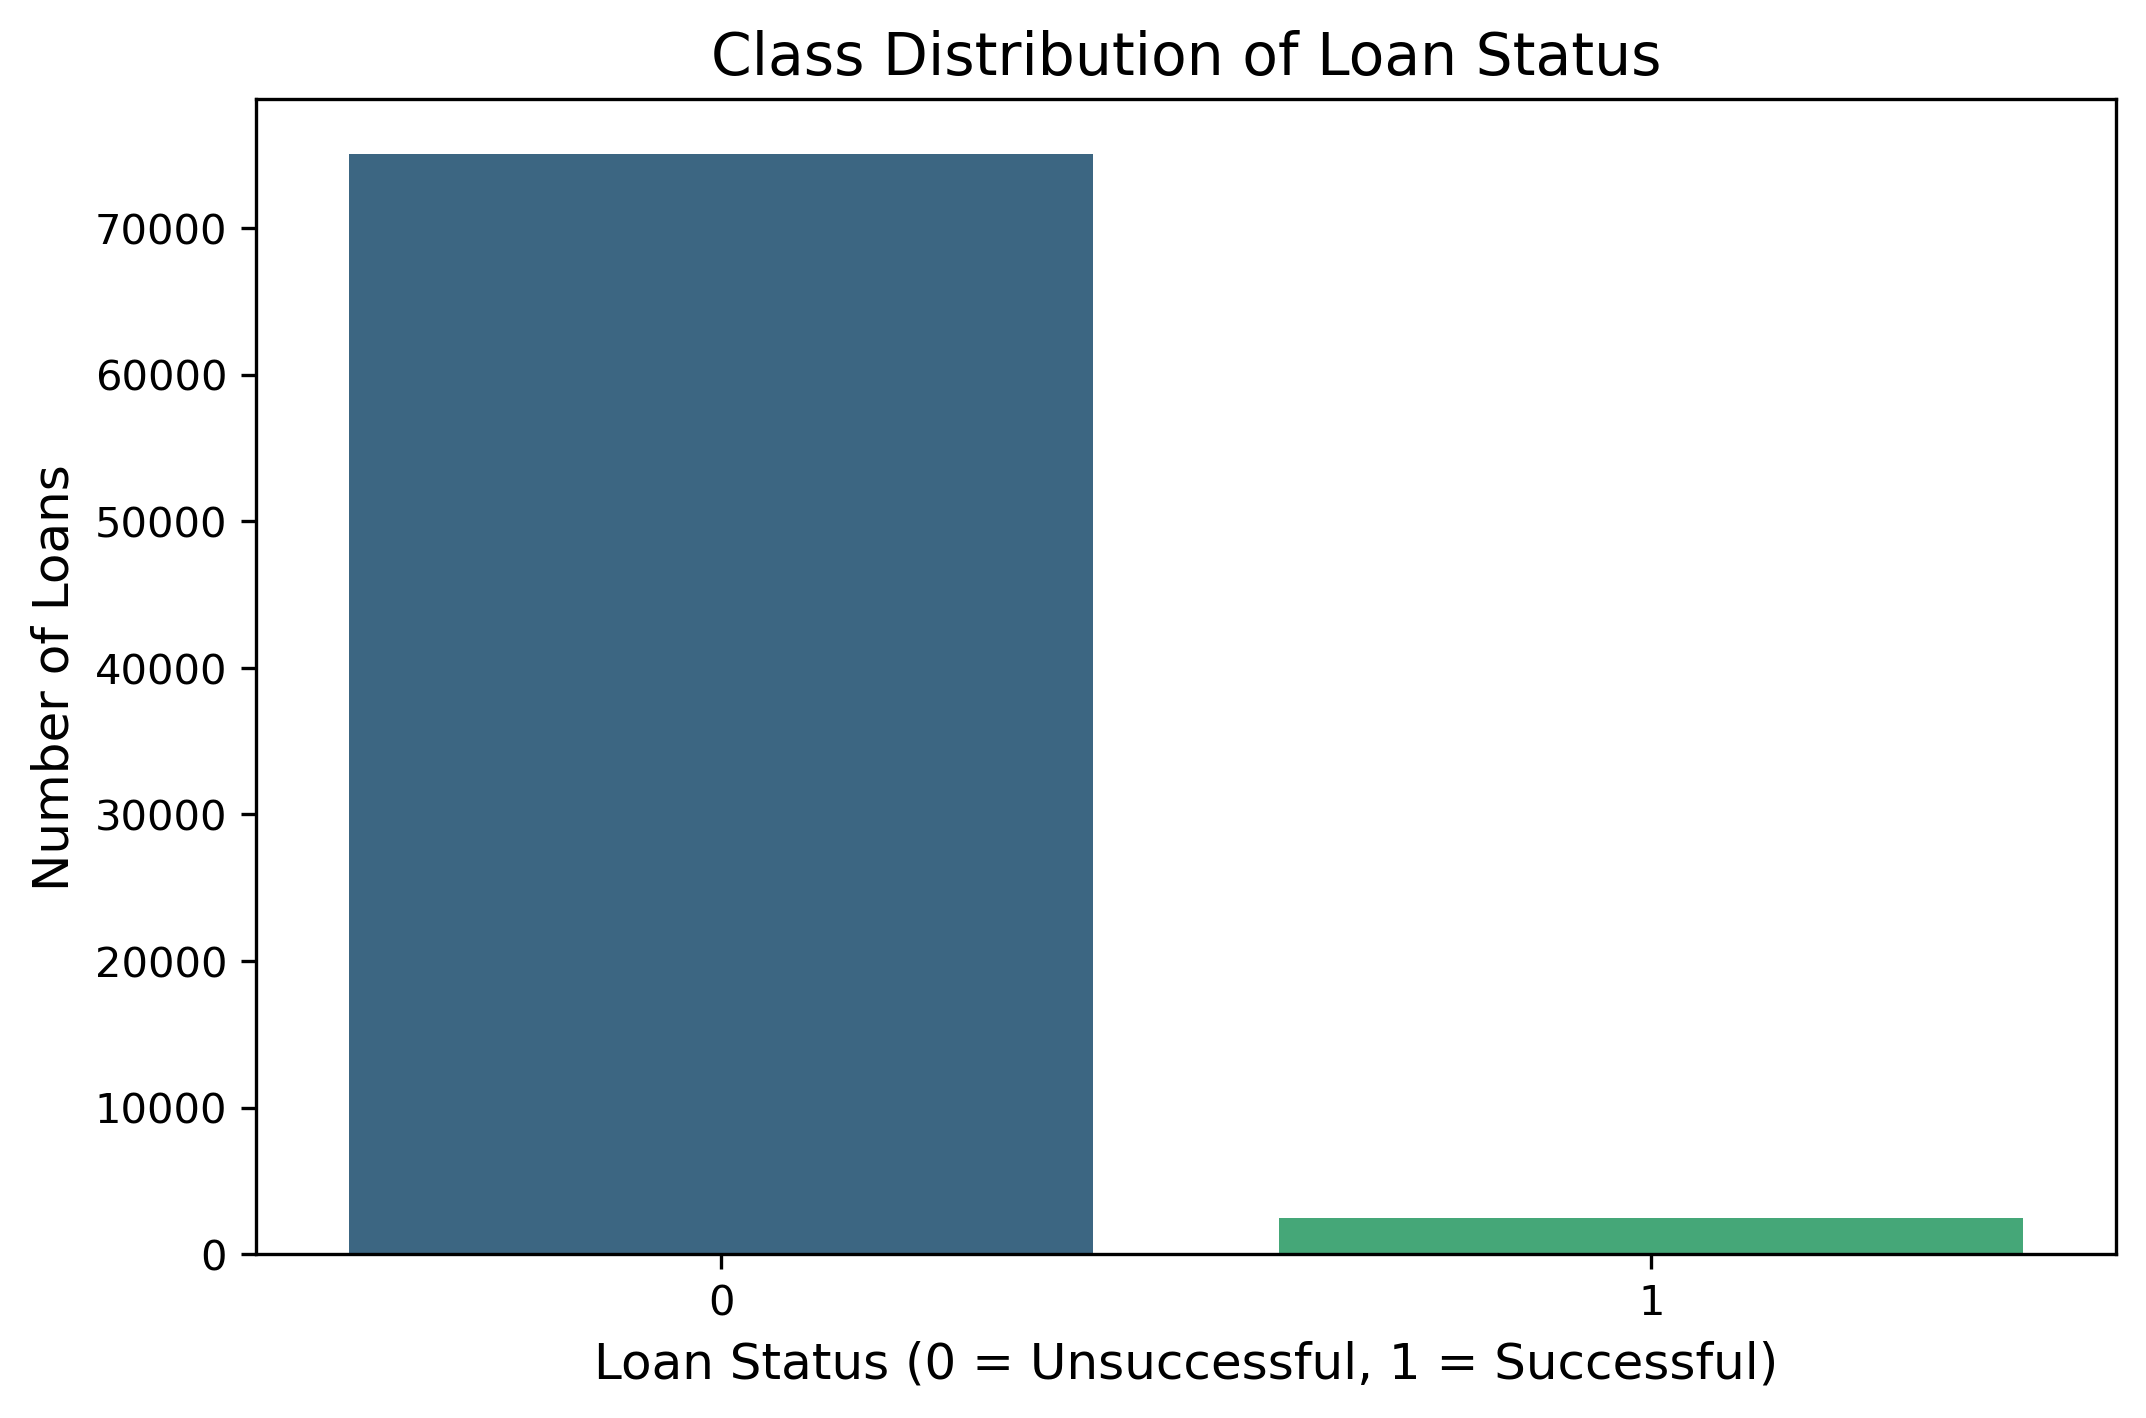
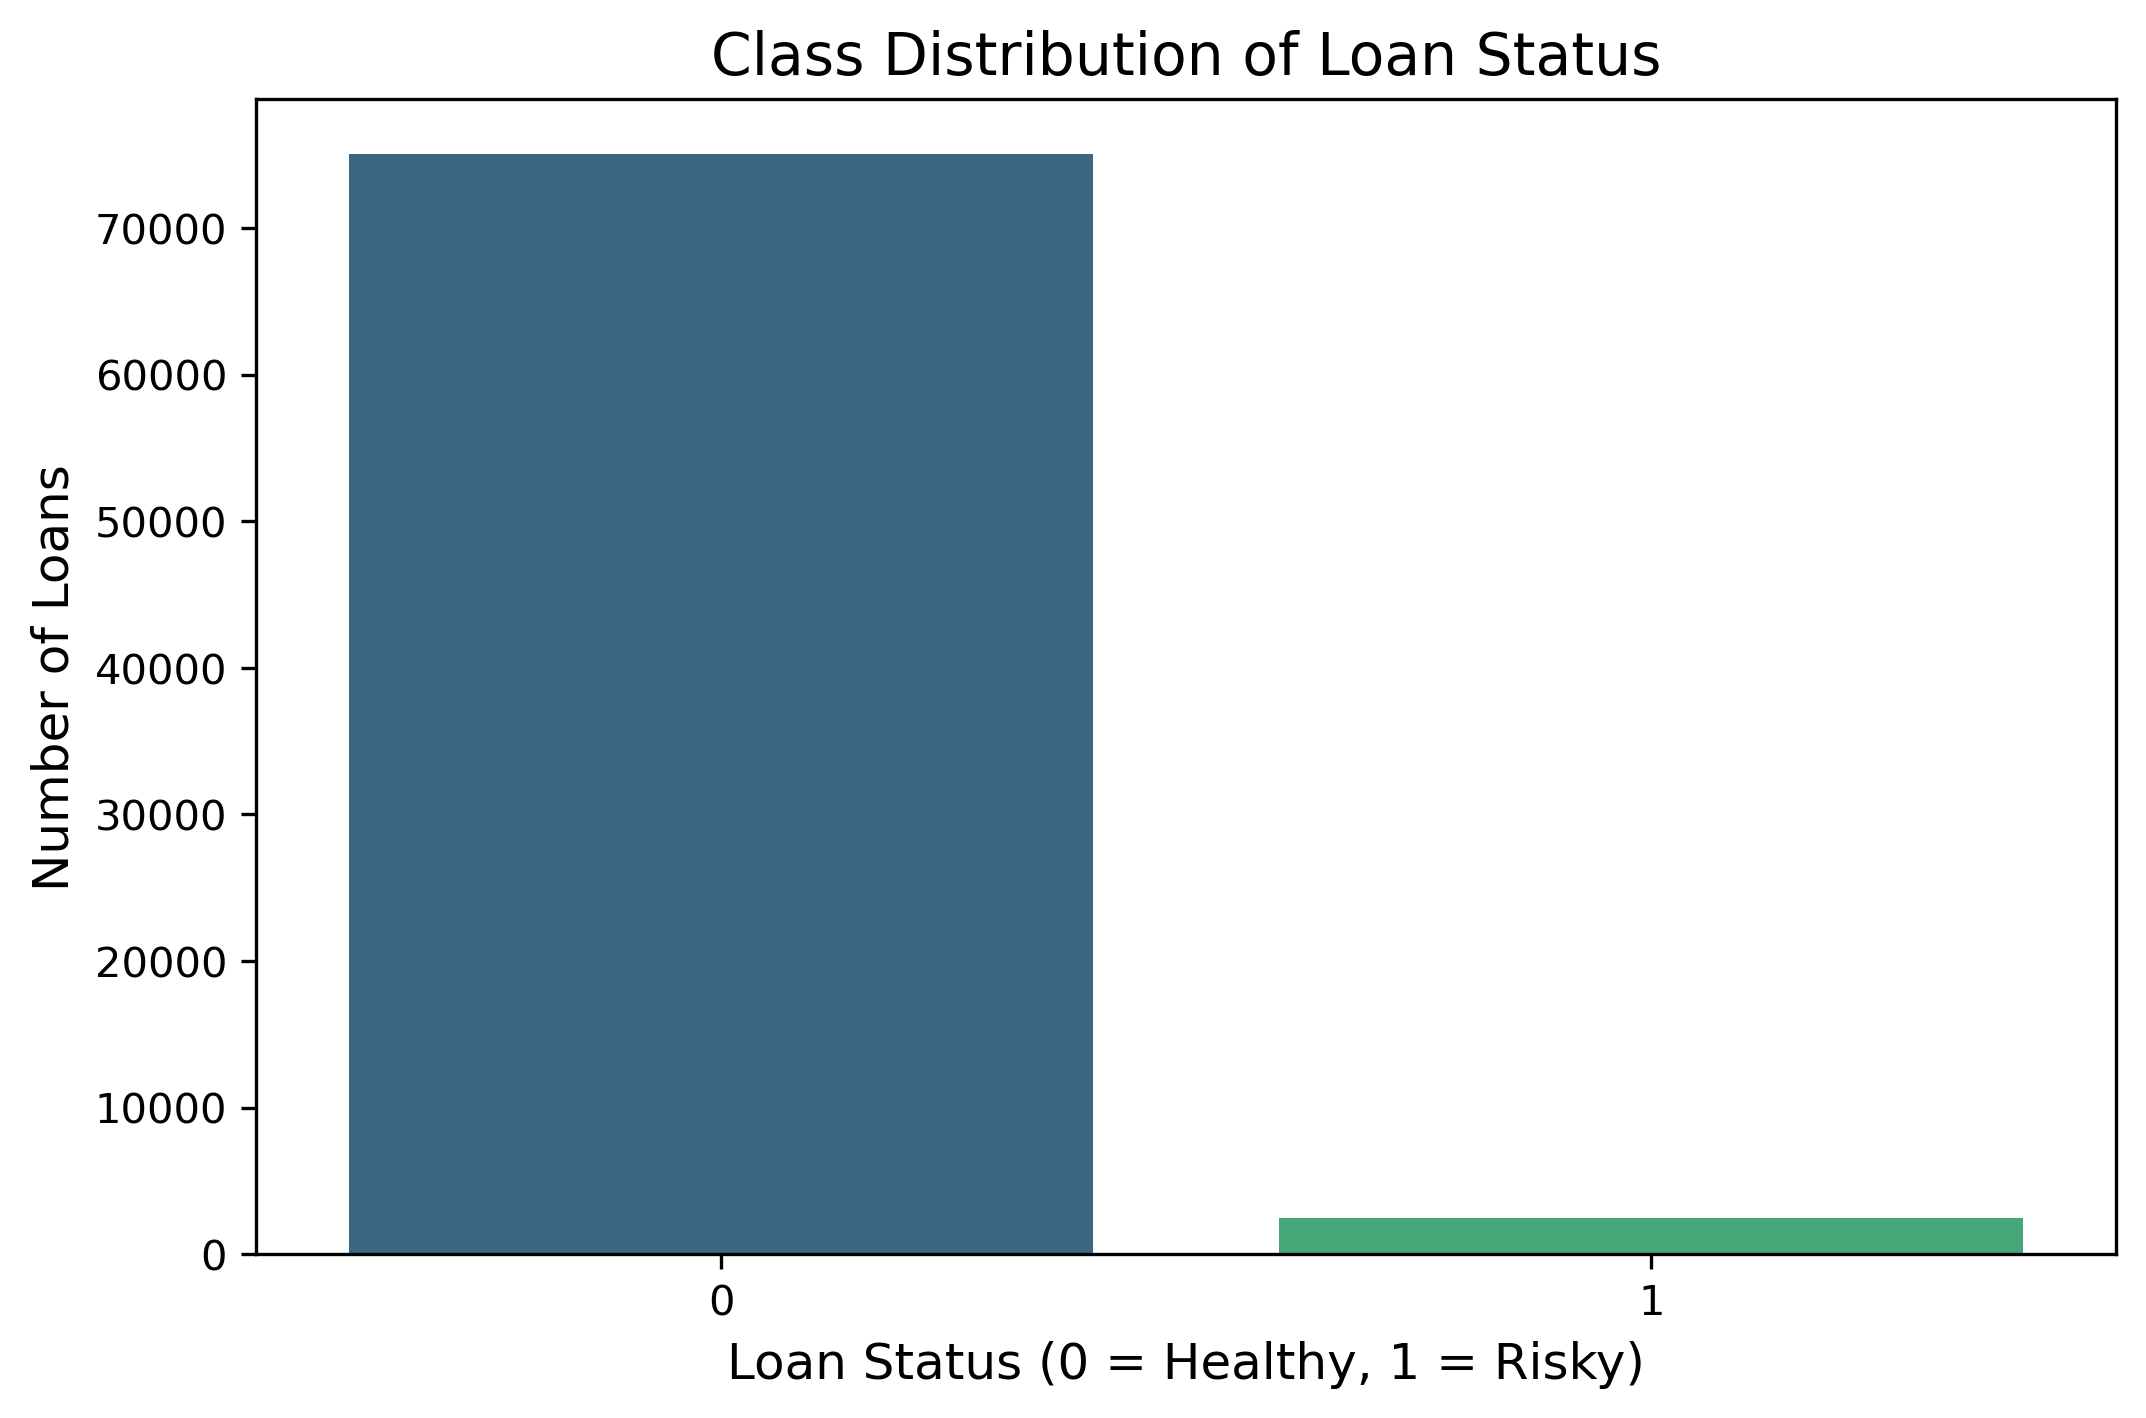
updated graphs and readme

Changed region(s): [[0.281, 0.9309, 0.6244, 0.9929], [0.6869, 0.9309, 0.8117, 0.9929]]

diff --git a/README.md b/README.md
@@ -1,72 +1,72 @@
 # Loan Risk Classification
 
-## Overview of the Analysis
-
-### Purpose:
-The analysis aims to develop and evaluate a machine learning model that can predict whether a loan is healthy (Class 0) or risky (Class 1). This assists the bank in mitigating credit risk by identifying loans likely to default, improving decision-making in loan approvals or rejections.
+## Purpose
+This analysis aims to develop a machine learning model to predict whether a loan is healthy (Class 0) or risky (Class 1). By identifying high-risk loans, the bank can mitigate credit risk and improve loan approval decisions.
 ___
 
-### Present Data VS Predicted Information:
-The data includes financial information such as loan size, interest rate, borrower income, debt-to-income ratio, number of accounts, derogatory marks, and total debt. The target variable (loan_status) indicates whether the loan is healthy (0) or high-risk (1), which the model is designed to predict.
+## Data Overview
+The dataset includes financial variables such as loan size, interest rate, borrower income, debt-to-income ratio, number of accounts, derogatory marks, and total debt. The target variable (loan_status) indicates loan health:
+
+* **Class 0 (Healthy Loans):** 18,759 samples
+* **Class 1 (Risky Loans):** 625 samples
+
+**Key Observation:**
+The dataset is highly imbalanced, with healthy loans dominating. While desirable for a bank, this imbalance can hinder the model's ability to detect risky loans accurately.
 ___
 
-### Basic Information About the Predicted Variables:
-The target variable, loan_status, is highly imbalanced, with far more healthy loans (Class 0) compared to risky loans (Class 1). While it is very good and desirable for a bank to have the absolute majority of loans be healthy, this imbalance impacts the model's ability to predict the minority class (risky loans). Here's the breakdown:
+## Machine Learning Process
+1. **Data Preprocessing:**
 
-* Class 0 (healthy loans): 18,759 samples
-* Class 1 (risky loans): 625 samples
+* Features (X) and labels (y) were separated.
+* Data was split into training and testing sets, stratified to preserve class balance.
+
+2. **Model Training:**
+
+* A Logistic Regression model was implemented using the lbfgs solver.
+* The model was trained on the stratified training dataset to ensure consistent results across imbalanced classes.
+**
+3. **Evaluation:**
+
+* Performance was assessed using a confusion matrix and classification report, providing accuracy, precision, recall, and F1-score metrics.
 ___
 
-### Stages of the Machine Learning Process:
-1. Loading and preprocessing the data by separating the features (X) and labels (y).
-2. Splitting the data into training and testing sets using train_test_split, with stratify=y to handle class imbalance.
-3. Implementing a **Logistic Regression model** from 'Scikit-Learn', with the 'lbfgs solver' to fit the training data and predict the test data. Logistic Regression is a linear model for binary classification, making it suitable for predicting whether loans are healthy or risky. The random_state was set to 1 for reproducibility, and the model was trained on the training dataset before being evaluated on the test dataset.
-4. Evaluating the model's performance using a confusion matrix and classification report to obtain precision, recall, and accuracy metrics.
+## Results
 
-___
-
-### Results:
-
-<p> Description of Accuracy, Machine Learning Model 1 (Logistic Regression):
-
-* **Accuracy: 99%**
+### Key Metrics:
+* **Overall Accuracy:** 99%
 * **Precision:**
-<p> - Class 0 (healthy loans): 1.00 (perfect precision)
-<p> - Class 1 (risky loans): 0.87
-
-* **Recall:** 
-<p> - Class 0 (healthy loans): 1.00 (perfect recall)
-<p> - Class 1 (risky loans): 0.89
-
+    * Class 0: 1.00 (Perfect precision)
+    * Class 1: 0.87
+* **Recall:**
+    * Class 0: 1.00 (Perfect recall)
+    * Class 1: 0.89
 * **F1-Score:**
-<p> - Class 0: 1.00
-<p> - Class 1: 0.88
+    * Class 0: 1.00
+    * Class 1: 0.88
+
+### Insights:
+* The model excels at predicting healthy loans, achieving perfect precision and recall.
+* Performance for risky loans is strong but slightly lower due to class imbalance.
+___
+
+## Recommendations
+To improve the model's ability to predict risky loans:
+
+1. **Oversample Risky Loans:** Increase the number of risky loan samples to balance the dataset.
+2. **Adjust Class Weights:** Penalize misclassification of risky loans more heavily.
+3. **Precision-Recall Tradeoff:** Focus on improving precision and recall for Class 1 (risky loans), as missing high-risk cases is costlier for the bank.
 
 ___
 
-### Summary
-
-Summarize the results of the machine learning models, and include a recommendation on the model to use, if any. For example:
-
-* **Which model performs best and how is it known?**
-<p> The Logistic Regression model performed exceptionally well in predicting healthy loans, achieving perfect precision and recall (1.00). It also performed reasonably well in predicting risky loans, with a precision of 87% and a recall of 89%. These metrics show that the model effectively identifies both classes, though it is slightly less reliable in predicting high-risk loans.
-
-* **Does performance depend on the problem being solved?**
-<p> Yes, performance depends on the problem. In this case, accurately predicting high-risk loans (1's) is more important because failing to identify these loans could result in significant financial losses for the bank. The model does well in identifying risky loans, but there is still room for improvement due to the data imbalance.
-
-
-* **Recommendation:** 
-<p> The Logistic Regression model is a strong candidate for deployment, especially with adjustments to better handle the imbalance. Improvements can be made by oversampling risky loans, adjusting class weights, or focusing more on precision and recall for high-risk loans. These steps will enhance the model's ability to detect risky loans, thus better managing the bank's credit risk.
-
+## Summary
+The Logistic Regression model performs exceptionally well for healthy loans and reasonably well for risky loans. With targeted improvements, this model can provide reliable predictions, enabling better credit risk management and decision-making.
 ___
 
-### Repo Structure:
-* The Jupyter Notebook with the code, **'credit_risk_classification.ipynb'**, is located in the **'Credit_Risk' folder**.
-* The **'Readme.md'** file includes the analysis of loan risks.
-The **'License'** file contains the general public license.
-
+## Repo Structure
+Notebook: credit_risk_classification.ipynb
+Documentation: README.md (includes analysis summary)
+License: Contains the public license information.
 ___
 
-### Data References:
-Data for this dataset was generated by edX Boot Camps LLC, intended for educational purposes only, to demonstrate the ability to transform and analyze data using machine learning techniques.
-___
+## Data Reference
+This dataset is fictional and is used to showcase my machine learning skills in predicting healthy and risky loans, as well as applying data transformation techniques in a real-world context.
